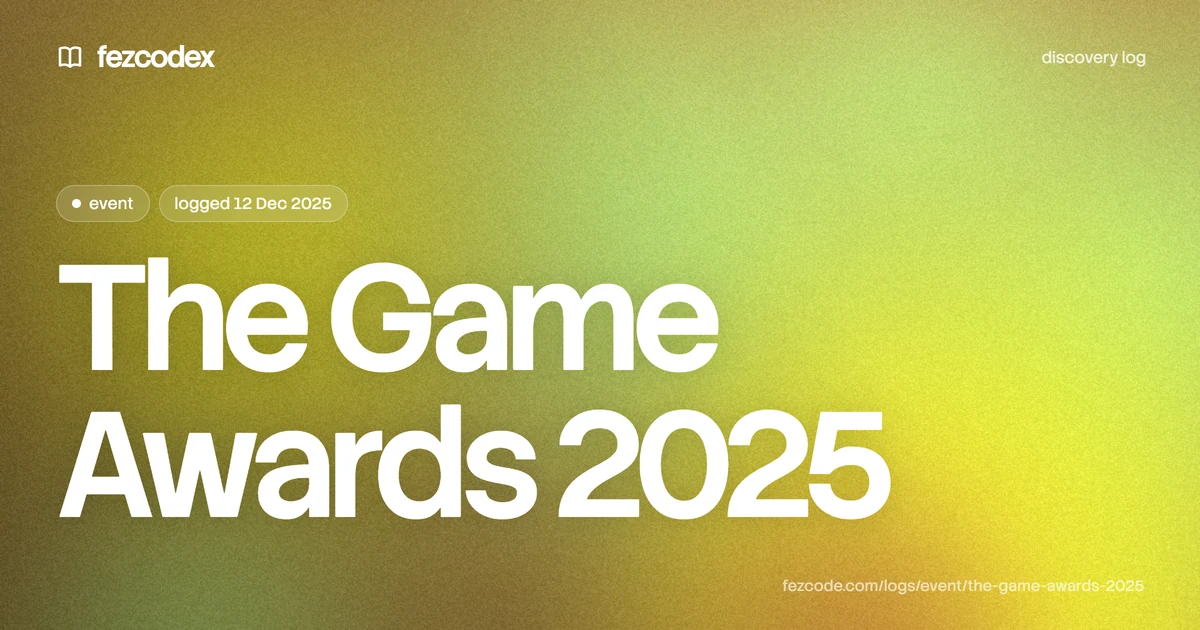
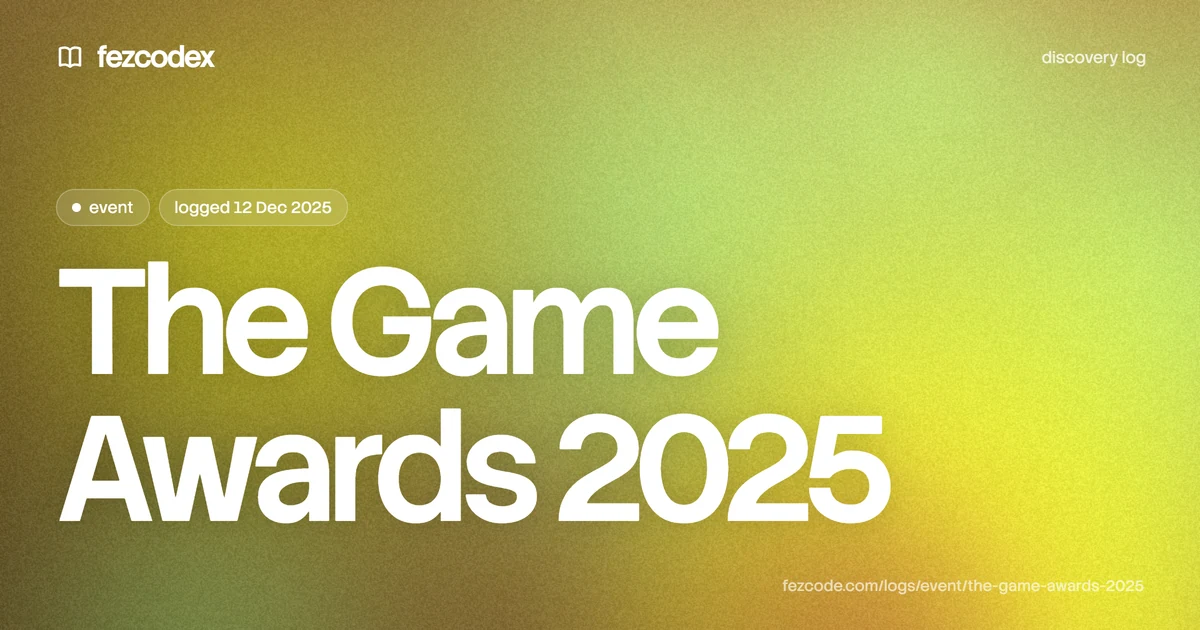
feat(og): share cards for every discovery log, release 0.67.0
Every log now gets a generated share card, even when it has an (image):
the cover is framed on the right of the colour-field poster and links
share the card, while the site keeps showing the cover as before.
/discovery/<category>/<slug> pages now get the same title, description
and card as their /logs twins.

Fixes long log titles pushing the tags into the masthead, unwraps doubled
quotes in log titles without breaking ones that open with a quoted phrase,
and crops the dapan.es cover to the 640x880 cover shape.

diff --git a/scripts/og/codex-card.js b/scripts/og/codex-card.js
@@ -323,6 +323,19 @@ function fillCopy(data) {
   });
 }
 
+async function showCover(src) {
+  const cover = document.getElementById('cover');
+  cover.src = src;
+  await cover.decode();
+  // fill a 400x430 frame whatever the source size, keeping its shape
+  const scale = Math.min(400 / cover.naturalWidth, 430 / cover.naturalHeight);
+  cover.style.width = Math.round(cover.naturalWidth * scale) + 'px';
+  cover.style.height = Math.round(cover.naturalHeight * scale) + 'px';
+  cover.hidden = false;
+  document.getElementById('card').classList.add('has-cover');
+  fitTitle(); // the copy column is narrower now
+}
+
 function fitTitle() {
   const title = document.getElementById('title');
   const card = document.getElementById('card');
@@ -331,9 +344,13 @@ function fitTitle() {
   const isLog = card.classList.contains('card--log');
   const max = isLog ? 150 : 80;
   const lineH = isLog ? 0.98 : 1.04;
+  const copy = title.parentElement;
+  // logs grow upward from the bottom; their top must stay below the masthead
+  const ceiling = isLog ? 112 : -Infinity;
   for (let size = max; size >= 36; size -= 2) {
     title.style.fontSize = size + 'px';
-    if (title.scrollWidth <= title.clientWidth && title.clientHeight <= size * lineH * 3 + 4) break;
+    const fitsLines = title.scrollWidth <= title.clientWidth && title.clientHeight <= size * lineH * 3 + 4;
+    if (fitsLines && copy.getBoundingClientRect().top >= ceiling) break;
   }
   // Long titles leave less room for the blurb.
   const lines = Math.round(title.clientHeight / (parseFloat(title.style.fontSize) * 1.04));
@@ -347,6 +364,7 @@ async function render() {
   if (!document.fonts.check('500 24px "Stack Sans Headline"')) throw new Error('Stack Sans did not load.');
   fitTitle();
   if (data.kind === 'log') {
+    if (data.cover) await showCover(data.cover);
     paintField(data);
     document.documentElement.dataset.ogReady = 'true';
     return;

diff --git a/scripts/og/codex-card.css b/scripts/og/codex-card.css
@@ -304,7 +304,7 @@ canvas {
 }
 .card--log .copy {
   top: auto;
-  bottom: 92px;
+  bottom: 88px;
   left: 56px;
   width: 1000px;
 }
@@ -320,6 +320,9 @@ canvas {
   font-size: 24px;
   font-weight: 500;
   opacity: 0.9;
+  white-space: nowrap;
+  overflow: hidden;
+  text-overflow: ellipsis;
 }
 .card--log .desc {
   display: none;
@@ -330,4 +333,20 @@ canvas {
 }
 .card--log .pills .dot {
   background: #fff;
+}
+
+/* log with its own image: the cover framed on the right of the poster */
+.cover {
+  position: absolute;
+  z-index: 2;
+  right: 72px;
+  top: 50%;
+  border-radius: 6px;
+  box-shadow:
+    0 30px 60px -12px #00000080,
+    0 0 0 1px #ffffff26;
+  transform: translateY(-50%) rotate(2.5deg);
+}
+.card--log.has-cover .copy {
+  width: 620px;
 }

diff --git a/scripts/og/codex-card.html b/scripts/og/codex-card.html
@@ -10,6 +10,7 @@
   <body>
     <main class="card" id="card">
       <canvas id="field" class="field" width="1200" height="630" aria-hidden="true"></canvas>
+      <img id="cover" class="cover" alt="" hidden />
       <div class="glow" aria-hidden="true"></div>
       <header class="masthead">
         <div class="brand">
